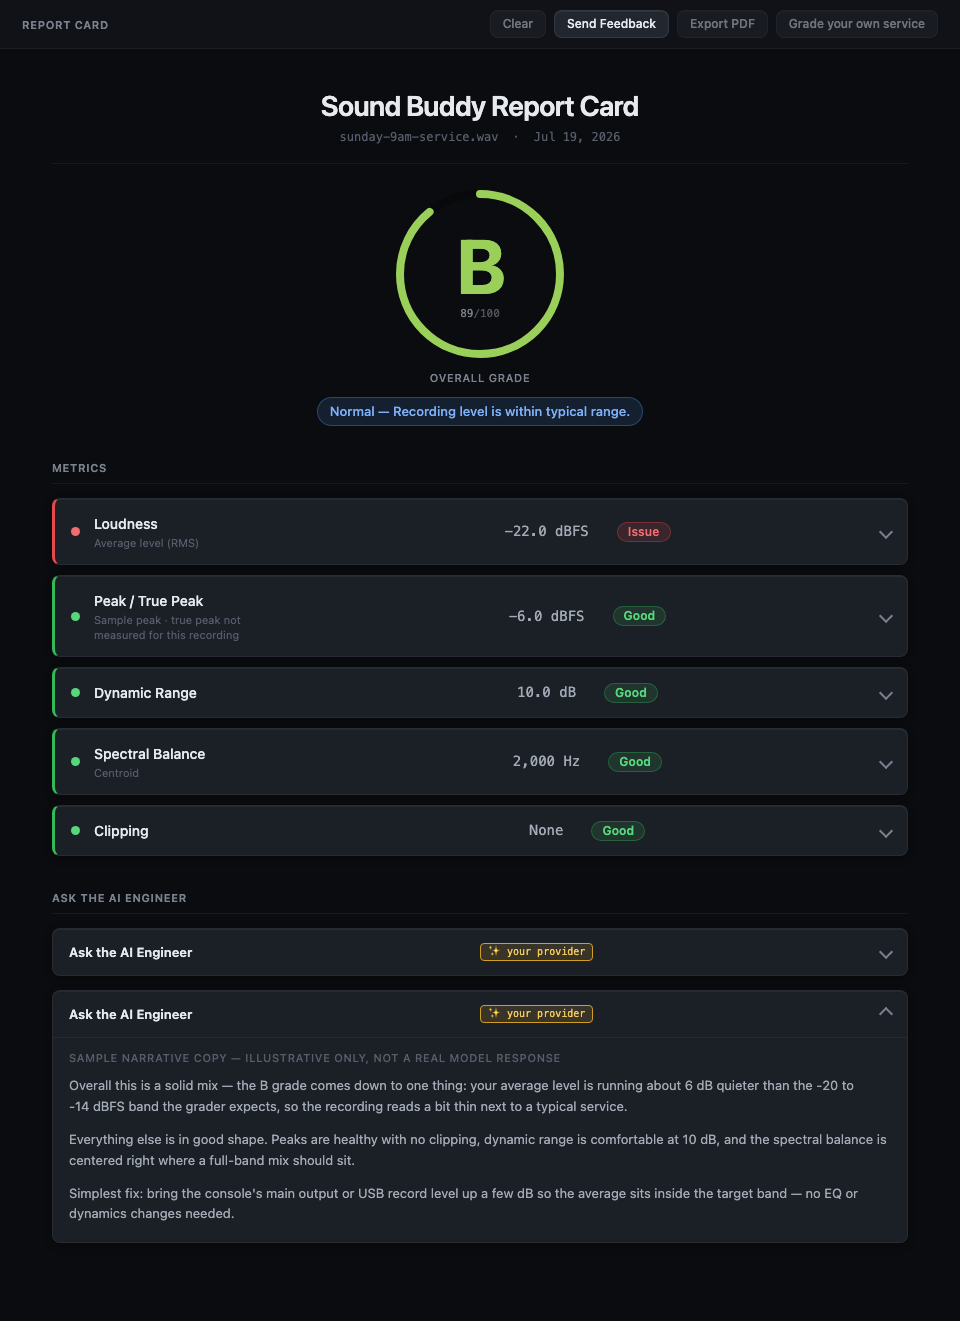
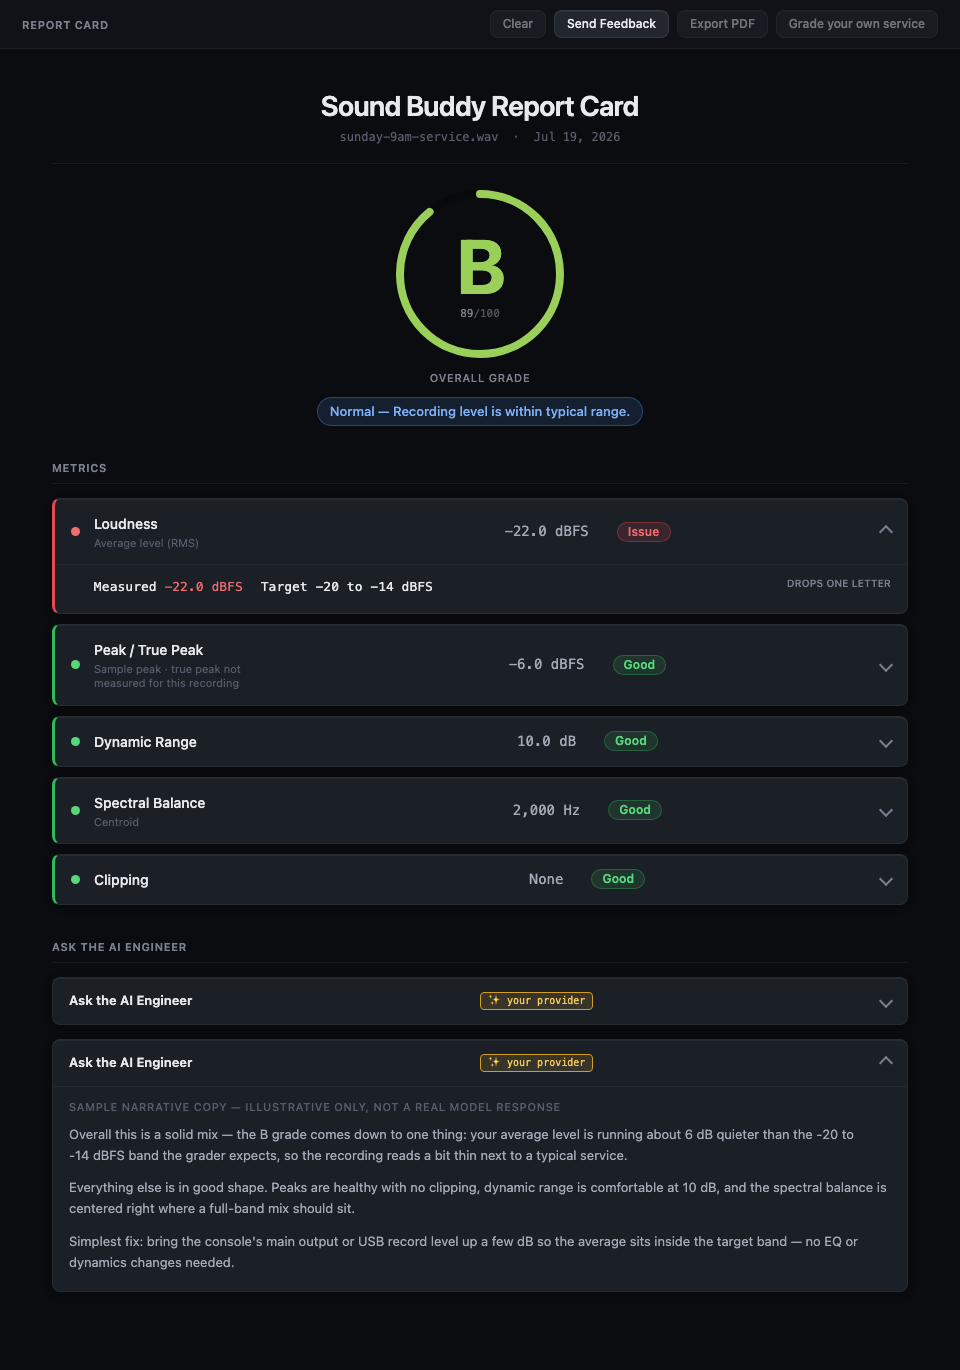
fix: restore default-open Loudness row + correct root-markup.html citations (#539)
Code review found mockup B's copy of the Loudness row had dropped the
`open` attribute mockup A established, and two line-number citations to
root-markup.html's #ai-panel/.pro-gate block had drifted from the actual
current lines. Re-screenshotted mockup-b.png after the fix.

diff --git a/docs/discovery/539-report-card-mockup/mockup-b-inline-ai.html b/docs/discovery/539-report-card-mockup/mockup-b-inline-ai.html
@@ -7,7 +7,7 @@
   header comment for the golden case / sourcing notes) — the only difference
   here is the AI Engineer treatment: a new "Ask the AI Engineer" section is
   added beneath the metric rows, collapsed by default, instead of the
-  standing right-rail `aside#ai-panel` (root-markup.html:340-351, copy
+  standing right-rail `aside#ai-panel` (root-markup.html:333-351, copy
   reused below: pg-icon/pg-title/pg-msg from `.pro-gate`, narrative shape
   from `#ai-output`).
 
@@ -148,7 +148,7 @@
   .metric-detail-row .impact { margin-left:auto; font:var(--fw-medium) 10px/1.2 var(--font-sans); letter-spacing:0.02em; text-transform:uppercase; color:var(--text-tertiary); }
 
   /* ── Inline AI Engineer section (new for this mockup) ──
-     Reuses .pro-gate copy/classes from root-markup.html:344-350, and the
+     Reuses .pro-gate copy/classes from root-markup.html:340-345, and the
      #ai-output narrative slot, folded into a card instead of a side aside. */
   details.ai-inline {
     background:var(--surface); border:1px solid var(--border-subtle);
@@ -219,7 +219,7 @@
 
     <h2 class="rc-h2">Metrics</h2>
     <div class="metric-rows">
-      <details class="metric-row tone-issue">
+      <details class="metric-row tone-issue" open>
         <summary>
           <span class="status-dot issue"></span>
           <span class="metric-name">Loudness<span class="metric-note">Average level (RMS)</span></span>

diff --git a/docs/discovery/539-report-card-mockup.md b/docs/discovery/539-report-card-mockup.md
@@ -37,7 +37,7 @@ be built from:
 | Per-row expand → measured/target/impact | `GradeExplanation.deductions` / `.notMeasured` (`report-card.ts:34-53`, the e2-05 breakdown), same data `whyGradeHTML()` already renders (`report-card.ts:303-342`). The five rows mocked here map onto `buildMetricRows()`'s existing metric list (`report-card.ts:265-282`) — no new metric needs computing. |
 | Metric tones (good/check/issue) | `GradingPillApi` classifiers already exist and are two-way mirrors of the grade (`rcRmsStatus`, `rcPeakStatus`, `rcDrStatus`, `rcCentroidStatus` — `app/renderer/grading.js:324-349`). Every tone and target string in the mockup was read from these functions and `CONFIG`, not invented. |
 | Real sample grade | `app/renderer/grading.golden.json`, case `rms_out_of_band_drop` (grade B, score 89, one deduction: RMS -22.0 dBFS vs. -20 to -14 dBFS target). No golden case in the file carries more than one deduction, so the spec's "prefer a richer multi-deduction case if one exists" doesn't apply — this was the only real option, and it's exactly the case the spec named. |
-| Inline AI content (mockup B) | `#ai-output`'s narrative slot and `.pro-gate`'s copy/markup (`root-markup.html:340-351`) — both already exist, just currently rendered in a side `aside`, not inline. |
+| Inline AI content (mockup B) | `#ai-output`'s narrative slot and `.pro-gate`'s copy/markup (`aside#ai-panel`, `root-markup.html:333-351`; `.pro-gate` itself is `340-345`) — both already exist, just currently rendered in a side `aside`, not inline. |
 
 ### Gap found: the "standing AI rail" doesn't actually show on the Report Card today
 